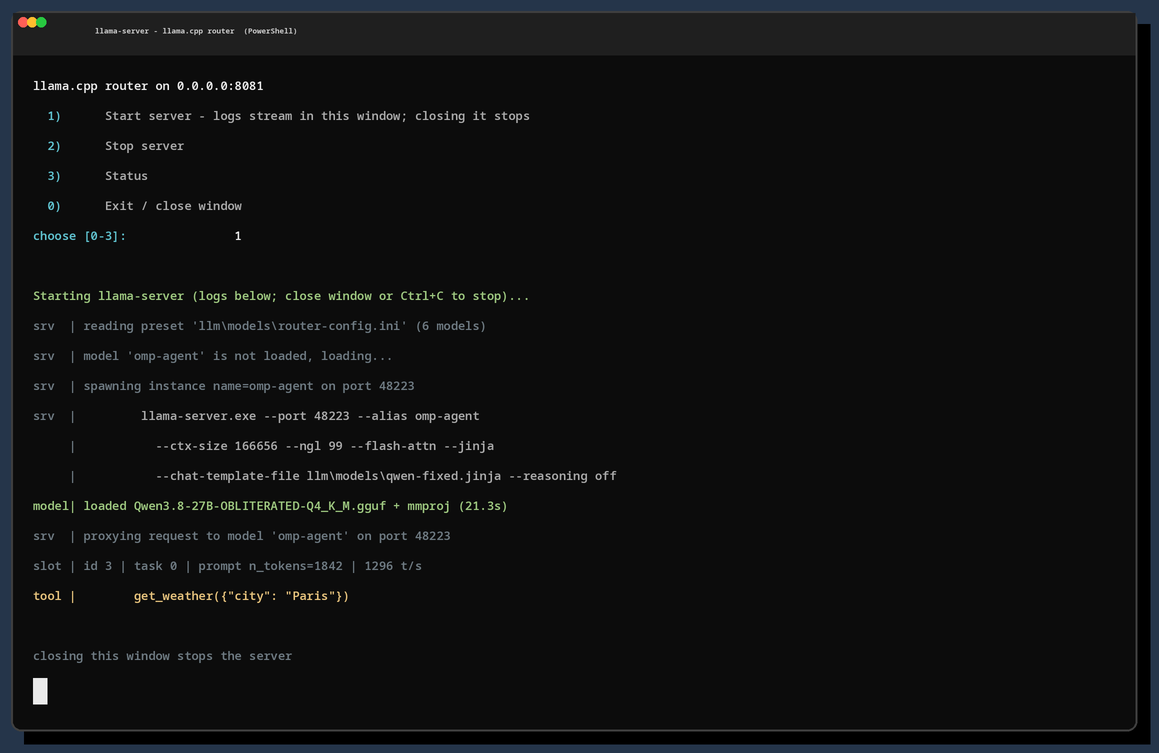
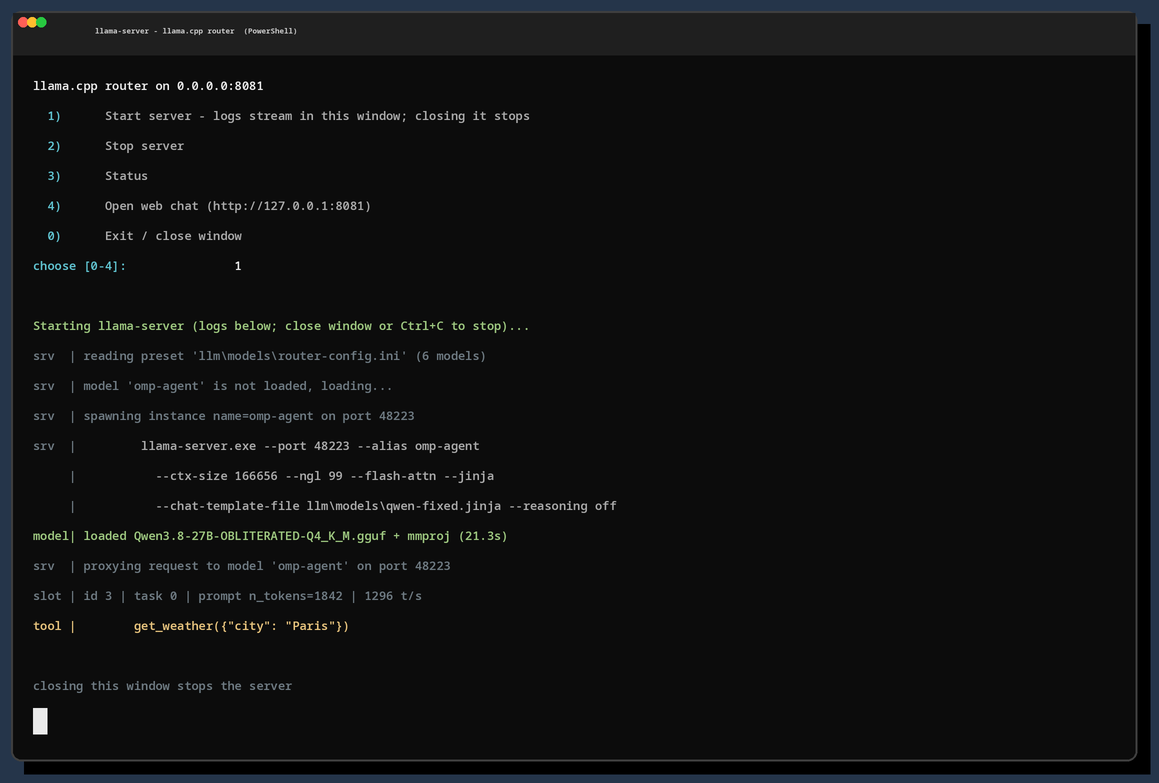
Add web chat to menu (health-guarded, prints URL), lint Python to ruff/black clean, mockup with option 4, workflow validates on main pushes

diff --git a/gen.py b/gen.py
@@ -15,17 +15,21 @@ jinja = (SRC / "qwen-fixed.jinja").read_text(encoding="utf-8", newline="")
[1 lines of base64/hex data omitted]
 tmpl_sha = hashlib.sha256(jinja.encode("utf-8")).hexdigest()
 if tmpl_sha != ORIGINAL_TMPL_SHA:
-    print(f"note: src/qwen-fixed.jinja differs from the original natureboy file (sha {tmpl_sha})")
+    print(
+        f"note: src/qwen-fixed.jinja differs from the original natureboy file (sha {tmpl_sha})"
+    )
 
 # source template has NO trailing newline; the writer trims the here-string's
 # terminator newline to stay byte-exact
 tmpl_has_trailing_nl = jinja.endswith("\n")
-tmpl_write_rhs = "$tmplText.TrimEnd(\"`n\")" if not tmpl_has_trailing_nl else "$tmplText"
+tmpl_write_rhs = '$tmplText.TrimEnd("`n")' if not tmpl_has_trailing_nl else "$tmplText"
 
 # ported preset: translate Linux paths, keep everything else byte-identical
 ported_ini = ini_text.replace("/mnt/windows/LLM_Models/", "@@MODELS@@\\")
 assert "@@MODELS@@" in ported_ini
-ported_ini = ported_ini.replace("/home/wfoster/llm/models/qwen-fixed.jinja", "@@TEMPLATE@@")
+ported_ini = ported_ini.replace(
+    "/home/wfoster/llm/models/qwen-fixed.jinja", "@@TEMPLATE@@"
+)
 assert "@@TEMPLATE@@" in ported_ini
 
 BAT_LAUNCHER = """@echo off
@@ -42,12 +46,16 @@ $exe    = Join-Path $root "llama\\llama-server.exe"
 $preset = Join-Path $root "llm\\models\\router-config.ini"
 $port   = 8081
 $health = "http://127.0.0.1:$port/health"
+$webui  = "http://127.0.0.1:$port"
 
 function Test-ServerRunning { return [bool](Get-Process -Name llama-server -ErrorAction SilentlyContinue) }
-function Get-ServerStatus {
-    $h = "down"
-    try { $h = (Invoke-WebRequest -UseBasicParsing -Uri $health -TimeoutSec 3).Content } catch {}
-    return $h
+function Get-ServerHealth {
+    try {
+        $r = Invoke-WebRequest -UseBasicParsing -Uri $health -TimeoutSec 3
+        return ($r.StatusCode -eq 200 -and $r.Content -match '"status"\\s*:\\s*"ok"')
+    } catch {
+        return $false
+    }
 }
 function Start-Server {
     if (Test-ServerRunning) { Write-Host "llama-server is already running"; return }
@@ -65,8 +73,16 @@ function Stop-Server {
     if (Test-ServerRunning) { Write-Host "failed to stop" } else { Write-Host "stopped" }
 }
 function Show-Status {
-    $h = Get-ServerStatus
-    if (Test-ServerRunning) { Write-Host "running ($h)" } else { Write-Host "stopped" }
+    if (-not (Test-ServerRunning)) { Write-Host "stopped"; return }
+    if (Get-ServerHealth) { Write-Host "running and healthy ($webui)" } else { Write-Host "running (starting? health not ok yet)" }
+}
+function Show-WebChat {
+    if (-not (Test-ServerRunning)) { Write-Host "llama-server is not running - start it first (option 1)"; return }
+    if (-not (Get-ServerHealth)) { Write-Host "server is up but not healthy yet (still loading); wait a moment and retry"; return }
+    Write-Host ""
+    Write-Host "Opening web chat: $webui" -ForegroundColor Green
+    Write-Host "  pick model 'qwen-chat' in the dropdown; the UI is served by llama-server itself"
+    Start-Process $webui
 }
 
 if ($args.Count -gt 0) {
@@ -75,7 +91,8 @@ if ($args.Count -gt 0) {
         "stop"    { Stop-Server }
         "restart" { Stop-Server; Start-Server }
         "status"  { Show-Status }
-        default   { Write-Host "usage: llama-server.ps1 [start|stop|restart|status]  (no args = menu)" }
+        "web"     { Show-WebChat }
+        default   { Write-Host "usage: llama-server.ps1 [start|stop|restart|status|web]  (no args = menu)" }
     }
     exit 0
 }
@@ -86,21 +103,26 @@ while ($true) {
     Write-Host "  1) Start server - logs stream in this window; closing it stops"
     Write-Host "  2) Stop server"
     Write-Host "  3) Status"
+    Write-Host "  4) Open web chat: $webui (needs the server running)"
     Write-Host "  0) Exit / close window"
-    $k = Read-Host "choose [0-3]"
+    $k = Read-Host "choose [0-4]"
     switch ($k) {
         "1" { Start-Server }
         "2" { Stop-Server }
         "3" { Show-Status }
+        "4" { Show-WebChat }
         "0" { exit 0 }
         default { Write-Host "unknown choice" }
     }
 }
 """
 
+
 assert "'@" not in BAT_LAUNCHER and "'@" not in MENU_PS
 assert "'@" not in jinja and "'@" not in ported_ini, "here-string terminator collision"
-assert all(ord(c) < 128 for c in (BAT_LAUNCHER + MENU_PS)), "menu/launcher must be pure ASCII"
+assert all(
+    ord(c) < 128 for c in (BAT_LAUNCHER + MENU_PS)
+), "menu/launcher must be pure ASCII"
 
 
 def ps_here_string(label, body):
@@ -133,7 +155,7 @@ PS = r"""#Requires -Version 5.1
       .\llm\models\qwen-fixed.jinja  chat template, byte-identical to natureboy
       .\llama-server.bat             launcher -> opens the control menu
       .\llama-server.ps1             control menu: 1=start, 2=stop, 3=status,
-                                     0=exit (also accepts start/stop/status args)
+                                     4=web chat, 0=exit (also subcommands)
       .\REMOVE_ME_TO_UPGRADE         upgrade lock (created after first install)
       desktop shortcut               llama-server.lnk -> llama-server.bat
 
@@ -382,9 +404,9 @@ if (-not $SkipFirewall) {
 Write-Host ""
 Write-Host "Setup complete." -ForegroundColor Green
 Write-Host "  Run     : .\llama-server.bat  (opens the control menu)"
-Write-Host "  Menu    : 1 = start server (logs stream in the window), 2 = stop, 3 = status, 0 = exit"
+Write-Host "  Menu    : 1 = start server (logs stream in the window), 2 = stop, 3 = status, 4 = web chat, 0 = exit"
 Write-Host "  Close   : closing the window or Ctrl+C stops the server"
-Write-Host "  Direct  : .\llama-server.ps1 start|stop|restart|status"
+Write-Host "  Direct  : .\llama-server.ps1 start|stop|restart|status|web"
 Write-Host "  Health  : http://127.0.0.1:$svcPort/health"
 Write-Host "  Config  : $preset"
 Write-Host "  Upgrade : delete $lockFile and re-run this script to update llama.cpp"

diff --git a/docs/gen-interface-mockup.py b/docs/gen-interface-mockup.py
@@ -13,21 +13,21 @@ from PIL import Image, ImageDraw, ImageFont
 BASE = pathlib.Path(__file__).resolve().parent
 
 # palette (Windows Terminal dark)
-BG         = (12, 12, 12)
-TITLE_BG   = (31, 31, 31)
+BG = (12, 12, 12)
+TITLE_BG = (31, 31, 31)
 TITLE_TEXT = (200, 200, 200)
-BORDER     = (63, 63, 63)
-WHITE      = (235, 235, 235)
-GRAY       = (170, 170, 170)
-DIM        = (110, 122, 130)
-CYAN       = (96, 195, 208)
-GREEN      = (158, 200, 128)
-YELLOW     = (231, 195, 125)
-DESKTOP    = (37, 53, 74)
+BORDER = (63, 63, 63)
+WHITE = (235, 235, 235)
+GRAY = (170, 170, 170)
+DIM = (110, 122, 130)
+CYAN = (96, 195, 208)
+GREEN = (158, 200, 128)
+YELLOW = (231, 195, 125)
+DESKTOP = (37, 53, 74)
 
-TITLE  = "llama-server - llama.cpp router  (PowerShell)"
+TITLE = "llama-server - llama.cpp router  (PowerShell)"
 FONT_SZ = 24
-ADV = FONT_SZ + 6   # line advance
+ADV = FONT_SZ + 6  # line advance
 PAD = 22
 TITLE_H = 44
 
@@ -39,11 +39,17 @@ def find_font(spec):
 
 def load_font(size, bold=False):
     candidates = [
-        "/usr/share/fonts/google-noto/NotoSansMono-Bold.ttf" if bold
-        else "/usr/share/fonts/google-noto/NotoSansMono-SemiBold.ttf",
+        (
+            "/usr/share/fonts/google-noto/NotoSansMono-Bold.ttf"
+            if bold
+            else "/usr/share/fonts/google-noto/NotoSansMono-SemiBold.ttf"
+        ),
         "/usr/share/fonts/google-noto/NotoSansMono-Regular.ttf",
-        "/usr/share/fonts/adwaita-mono-fonts/AdwaitaMono-Bold.ttf"
-        if bold else "/usr/share/fonts/adwaita-mono-fonts/AdwaitaMono-Regular.ttf",
+        (
+            "/usr/share/fonts/adwaita-mono-fonts/AdwaitaMono-Bold.ttf"
+            if bold
+            else "/usr/share/fonts/adwaita-mono-fonts/AdwaitaMono-Regular.ttf"
+        ),
     ]
     for spec in candidates:
         path = find_font(spec)
@@ -59,11 +65,15 @@ FONT_TITLE = load_font(15, bold=True)
 # (text, color) segments; None = default WHITE
 LINES = [
     [("llama.cpp router on 0.0.0.0:8081", WHITE)],
-    [("  1) ", CYAN), ("Start server - logs stream in this window; closing it stops", GRAY)],
+    [
+        ("  1) ", CYAN),
+        ("Start server - logs stream in this window; closing it stops", GRAY),
+    ],
     [("  2) ", CYAN), ("Stop server", GRAY)],
     [("  3) ", CYAN), ("Status", GRAY)],
+    [("  4) ", CYAN), ("Open web chat (http://127.0.0.1:8081)", GRAY)],
     [("  0) ", CYAN), ("Exit / close window", GRAY)],
-    [("choose [0-3]: ", CYAN), ("1", WHITE)],
+    [("choose [0-4]: ", CYAN), ("1", WHITE)],
     [],
     [("Starting llama-server (logs below; close window or Ctrl+C to stop)...", GREEN)],
     [("srv  | reading preset 'llm\\models\\router-config.ini' (6 models)", DIM)],
@@ -71,11 +81,17 @@ LINES = [
     [("srv  | spawning instance name=omp-agent on port 48223", DIM)],
     [("srv  |", DIM), ("   llama-server.exe --port 48223 --alias omp-agent", GRAY)],
     [("     |", DIM), ("     --ctx-size 166656 --ngl 99 --flash-attn --jinja", GRAY)],
-    [("     |", DIM), ("     --chat-template-file llm\\models\\qwen-fixed.jinja --reasoning off", GRAY)],
+    [
+        ("     |", DIM),
+        (
+            "     --chat-template-file llm\\models\\qwen-fixed.jinja --reasoning off",
+            GRAY,
+        ),
+    ],
     [("model| loaded Qwen3.8-27B-OBLITERATED-Q4_K_M.gguf + mmproj (21.3s)", GREEN)],
     [("srv  | proxying request to model 'omp-agent' on port 48223", DIM)],
     [("slot | id 3 | task 0 | prompt n_tokens=1842 | 1296 t/s", DIM)],
-    [("tool | ", YELLOW), ("get_weather({\"city\": \"Paris\"})", YELLOW)],
+    [("tool | ", YELLOW), ('get_weather({"city": "Paris"})', YELLOW)],
     [],
     [("closing this window stops the server", DIM)],
     [],
@@ -102,10 +118,19 @@ d.rectangle(
 )
 
 ox, oy = PAD, PAD
-d.rounded_rectangle([ox, oy, ox + W * scale, oy + H * scale], radius=10 * scale, fill=BG, outline=BORDER, width=2 * scale)
+d.rounded_rectangle(
+    [ox, oy, ox + W * scale, oy + H * scale],
+    radius=10 * scale,
+    fill=BG,
+    outline=BORDER,
+    width=2 * scale,
+)
 
 # title bar
-d.rectangle([ox + 2 * scale, oy + 2 * scale, ox + W * scale - 2 * scale, oy + TITLE_H * scale], fill=TITLE_BG)
+d.rectangle(
+    [ox + 2 * scale, oy + 2 * scale, ox + W * scale - 2 * scale, oy + TITLE_H * scale],
+    fill=TITLE_BG,
+)
 for pos, col in zip(
     [(ox + 24, oy + 22), (ox + 42, oy + 22), (ox + 60, oy + 22)],
     [(255, 95, 86), (255, 189, 46), (40, 200, 64)],
@@ -133,7 +158,12 @@ for segs in LINES:
 cursor_x = ox + PAD * scale
 cursor_y = oy + (TITLE_H + PAD) * scale + (len(LINES) - 1) * ADV * scale + 1 * scale
 d.rectangle(
-    [cursor_x, cursor_y, cursor_x + max(9 * scale, int(FONT.getlength("M") * scale)), cursor_y + (FONT_SZ + 2) * scale],
+    [
+        cursor_x,
+        cursor_y,
+        cursor_x + max(9 * scale, int(FONT.getlength("M") * scale)),
+        cursor_y + (FONT_SZ + 2) * scale,
+    ],
     fill=WHITE,
 )
 

diff --git a/tools/verify.py b/tools/verify.py
@@ -26,7 +26,7 @@ for i, line in enumerate(ps.splitlines(), 1):
 
 
 def extract(label):
-    m = re.search(r"^\$%s = @'\n(.*?)\n'@$" % label, ps, re.M | re.S)
+    m = re.search(rf"^\${label} = @'\n(.*?)\n'@$", ps, re.MULTILINE | re.DOTALL)
     assert m, label
     return m.group(1) + "\n"
 
@@ -35,12 +35,17 @@ tmpl = extract("tmplText")
 src_tmpl = (REPO / "src" / "qwen-fixed.jinja").read_bytes()
 assert tmpl.encode()[:-1] == src_tmpl, "template not byte-exact"
 expected = hashlib.sha256(src_tmpl).hexdigest()
-assert f'$tmplSha  = "{expected}"' in ps, "injected $tmplSha does not match src template"
+assert (
+    f'$tmplSha  = "{expected}"' in ps
+), "injected $tmplSha does not match src template"
 print("template byte-exact, injected SHA:", expected)
 
-ported = (REPO / "src" / "router-config.ini").read_text().replace(
-    "/mnt/windows/LLM_Models/", "@@MODELS@@\\"
-).replace("/home/wfoster/llm/models/qwen-fixed.jinja", "@@TEMPLATE@@")
+ported = (
+    (REPO / "src" / "router-config.ini")
+    .read_text()
+    .replace("/mnt/windows/LLM_Models/", "@@MODELS@@\\")
+    .replace("/home/wfoster/llm/models/qwen-fixed.jinja", "@@TEMPLATE@@")
+)
 assert extract("presetText") == ported, "preset not exact"
 print("preset exact")
 

diff --git a/README.md b/README.md
@@ -10,6 +10,7 @@ Windows port of natureboy's llama.cpp router setup (systemd unit + router preset
 - [One-click release EXE](#one-click-release-exe)
 - [Running the server on demand](#running-the-server-on-demand)
 - [Menu](#menu)
+- [Web chat (built-in)](#web-chat-built-in)
 - [CLI subcommands](#cli-subcommands)
 - [Interface preview](#interface-preview)
 - [Upgrading llama.cpp](#upgrading-llama-cpp)
@@ -92,19 +93,29 @@ llama.cpp router on 0.0.0.0:8081
   1) Start server - logs stream in this window; closing it stops
   2) Stop server
   3) Status
+  4) Open web chat (http://127.0.0.1:8081)
   0) Exit / close window
-choose [0-3]: 1
+choose [0-4]: 1
 ```
 
 - `1` starts the router in this window. The first request to a model loads it (10 to 40 seconds).
 - `2` stops it immediately (the router and any child model servers).
 - `3` shows `running ({"status":"ok"})` or `stopped`.
+- `4` opens the built-in web chat in your browser (see below).
 - `0` closes the window.
+
+## Web chat (built-in)
+
+llama.cpp's web UI is served by llama-server itself at `http://127.0.0.1:8081/` (menu option 4, or `.\llama-server.ps1 web`). It is not a separate process, so it cannot be started or stopped on its own: when the server is running the chat is up, and stopping the server closes it. Option 4 only opens the browser when the server is running and its `/health` endpoint reports `ok`, and it prints the URL before launching.
+
+It is a ChatGPT-style chat: streaming replies, markdown, a model dropdown listing the router's presets, and image input for the vision models (`qwen-chat` is Qwen3.8-27B-OBLITERATED + mmproj). Pick `qwen-chat` in the dropdown; the UI remembers your last model.
+
+Compared to Open WebUI it is intentionally simpler: single user, no accounts, history stays in the browser, no plugin ecosystem. It needs no Docker or Podman on the Windows machine.
 
 ## CLI subcommands
 
 ```powershell
-.\llama-server.ps1 start | stop | restart | status
+.\llama-server.ps1 start | stop | restart | status | web
 ```
 
 ## Interface preview
